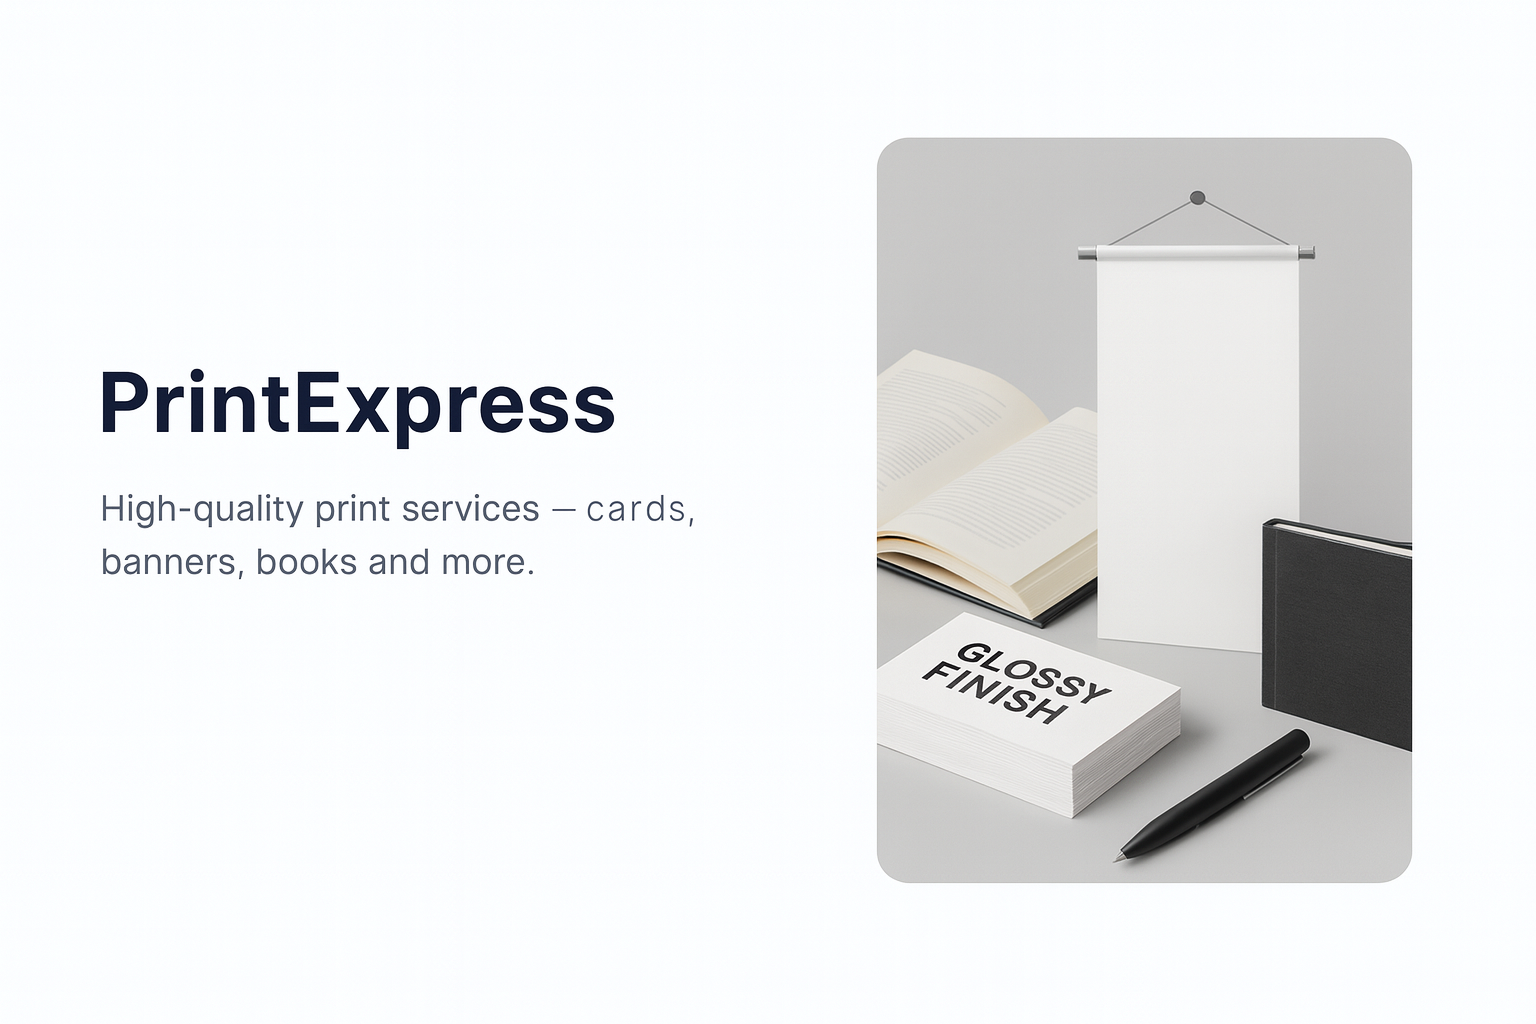
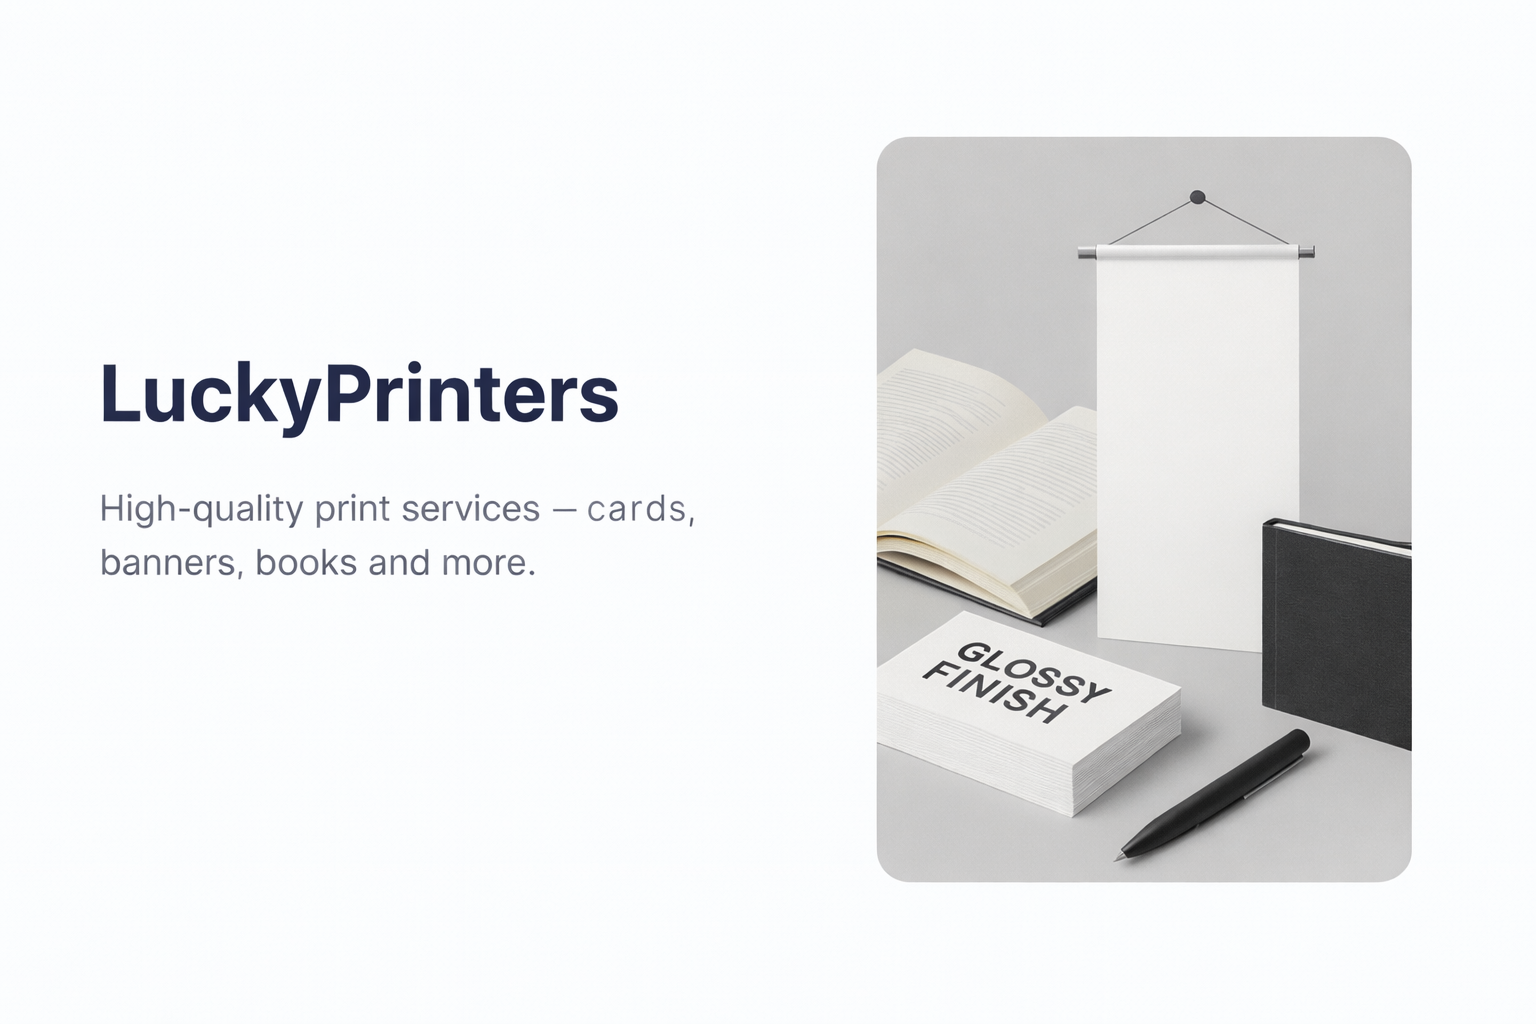
new fevikon

diff --git a/src/pages/Home.jsx b/src/pages/Home.jsx
@@ -170,21 +170,24 @@ export default function Home() {
       </section>
 
       {/* WhatsApp floating button */}
-      <a
-        className="whatsapp-fab"
-        href="https://wa.me/917827663009?text=Hi%20I%20want%20to%20order"
-        target="_blank"
-        rel="noreferrer"
-      >
-        <svg width="22" height="22" viewBox="0 0 24 24" fill="none">
-          <path
-            d="M20.5 3.5L3.5 20.5"
-            stroke="#fff"
-            strokeWidth="0"
-          />
-        </svg>
-        <span style={{ fontSize: 20 }}>🟢</span>
-      </a>
+      {/* WhatsApp floating button */}
+<a
+  className="whatsapp-fab"
+  href="https://wa.me/917827663009?text=Hi%20I%20want%20to%20order"
+  target="_blank"
+  rel="noreferrer"
+>
+  <svg
+    width="28"
+    height="28"
+    viewBox="0 0 24 24"
+    fill="#25D366"
+    xmlns="http://www.w3.org/2000/svg"
+  >
+    <path d="M20.52 3.48A11.85 11.85 0 0012.03 0C5.4 0 .03 5.37.03 12c0 2.11.55 4.17 1.6 5.99L0 24l6.19-1.62A11.94 11.94 0 0012.03 24c6.63 0 12-5.37 12-12 0-3.2-1.25-6.2-3.51-8.52zM12.03 21.8c-1.82 0-3.6-.49-5.16-1.41l-.37-.22-3.68.96.98-3.59-.24-.37a9.74 9.74 0 01-1.5-5.18c0-5.41 4.41-9.82 9.82-9.82s9.82 4.41 9.82 9.82-4.41 9.82-9.82 9.82zm5.39-7.39c-.29-.15-1.72-.85-1.98-.95-.27-.1-.46-.15-.66.15-.2.29-.76.95-.93 1.14-.17.2-.34.22-.63.07-.29-.15-1.22-.45-2.32-1.44-.86-.77-1.44-1.72-1.61-2.01-.17-.29-.02-.45.13-.6.13-.13.29-.34.44-.51.15-.17.2-.29.29-.49.1-.2.05-.37-.02-.51-.07-.15-.66-1.59-.9-2.17-.24-.58-.49-.5-.66-.51h-.56c-.2 0-.51.07-.78.37-.27.29-1.02 1-1.02 2.44 0 1.44 1.05 2.84 1.2 3.03.15.2 2.08 3.17 5.05 4.45.71.31 1.27.5 1.7.64.71.23 1.35.2 1.86.12.57-.08 1.72-.7 1.97-1.37.24-.66.24-1.23.17-1.37-.07-.15-.27-.22-.56-.37z"/>
+  </svg>
+</a>
+
     </main>
   );
 }

diff --git a/src/components/Header.jsx b/src/components/Header.jsx
@@ -56,7 +56,7 @@ export default function Header() {
           </div>
 
           <div style={{display:"flex", gap:8, alignItems:"center"}}>
-            <a className="btn btn-ghost" href={"https://wa.me/918826515465?text=Hello%20PrintExpress"} target="_blank" rel="noreferrer">WhatsApp</a>
+            <a className="btn btn-ghost" href={"https://wa.me/917827663009?text=Hello%20LuckyPrinters"} target="_blank" rel="noreferrer">WhatsApp</a>
 
             <AuthButtons onLogin={handleLogin} onLogout={handleLogout} />
           </div>

diff --git a/index.html b/index.html
@@ -2,9 +2,9 @@
 <html lang="en">
   <head>
     <meta charset="UTF-8" />
-    <link rel="icon" type="image/svg+xml" href="/vite.svg" />
+    <link rel="icon" type="image/svg+xml" href="/fevikon.svg" />
     <meta name="viewport" content="width=device-width, initial-scale=1.0" />
-    <title>printexpress</title>
+    <title>LuckyPrinters</title>
   </head>
   <body>
     <div id="root"></div>
